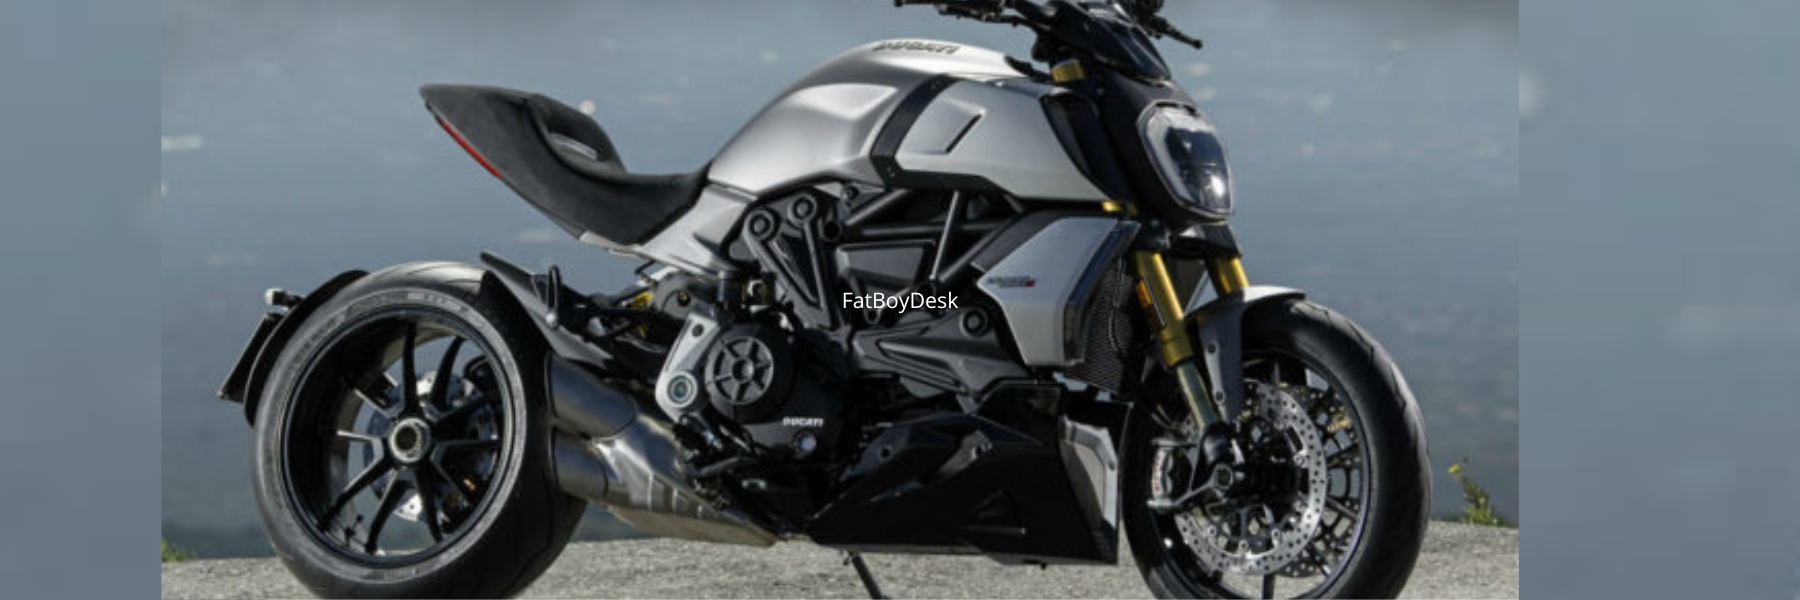
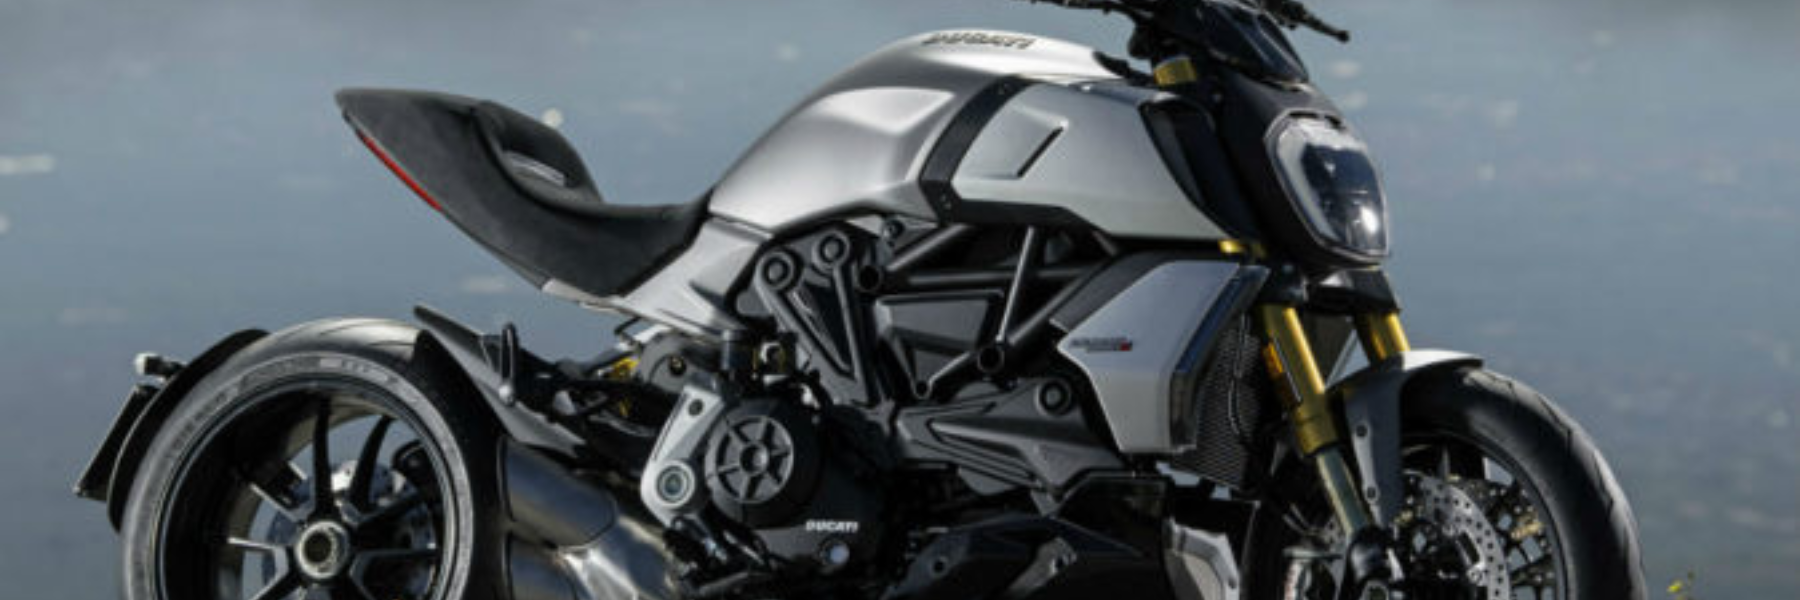
Index finalizado

diff --git a/index.css b/index.css
@@ -44,6 +44,7 @@ body{
   display: flex;
   align-items: center;
   justify-content: space-around;
+  font-size: 100%;
 }
 
 .tira button{
@@ -55,8 +56,6 @@ body{
   font-family: 'Righteous',sans-serif;
   margin-top: 10%;
   font-size: 20px;
-  
-  
 }
 
 .tira h2{
@@ -85,7 +84,8 @@ body{
   margin-left: 3%;
 }
 .ofertas .motos{
-  width: 300px;
+  width: 100%;
+  height: auto;
 }
 
 .ofertas a{
@@ -94,7 +94,10 @@ body{
 }
 .ofertas p{
   text-decoration: none;
-  color:black;
+  color: black;
+  justify-content: start;
+  display: flex;
+  margin: 3%;
 }
 
 .ofertas a:hover{
@@ -217,6 +220,7 @@ body{
     display: grid;
     grid-template-columns: 1fr;
     background-color: #ffff;
+    margin: 3%;
   }
   .card{
     background-color: rgb(217, 217, 217);
@@ -238,18 +242,184 @@ body{
   font-family: 'Righteous',sans-serif;
   margin-top: 20%;
 }
-.roda{
-  background-color:rgba(22, 22, 22, 1);
-  height: auto;
-  margin-top: 7%;
-  align-items: flex-end;
+.tira h2{
+  font-family: 'Righteous',sans-serif;
+  color: white;
+  text-align: center;
+  font-size: 100%;
 }
-.rodaPe{
-  display: flex;
-  flex-direction: column;
-  justify-content: center;
-  align-items: flex-end;
+.tira button{
+  background-color: rgb(255, 102, 0, 1);
+  color:white;
+  height: 50px;
+  width: 150%;
+  font-size:  large;
+  font-family: 'Righteous',sans-serif;
+  margin-top: 10%;
+  font-size: 20px;
 }
 }
 
+@media screen and (max-width:702px){
+  .img-desktop{
+    display: none;
+  }
+  .img-mobile{
+    display: block;
+  }
+  .nav-auto, .nav-manual{
+    margin-top: 53%;
+  }
+  .container{
+    display: grid;
+    grid-template-columns: 1fr;
+    background-color: #ffff;
+    margin: 3%;
+  }
+  .card{
+    background-color: rgb(217, 217, 217);
+    width: 60%;
+    margin-left: 20%;
+    height: 90%;
+    border-radius: 2%;
+    margin-top: 70px;
+  }
+  .card button{
+    background-color: rgb(255, 102, 0, 1);
+    color:white;
+    height: 13%;
+    width: 70%;
+    font-size: large;
+    font-family: 'Righteous',sans-serif;
+  }
+  .card p{
+  font-family: 'Righteous',sans-serif;
+  margin-top: 20%;
+}
+.tira h2{
+  font-family: 'Righteous',sans-serif;
+  color: white;
+  text-align: center;
+}
+.tira button{
+  background-color: rgb(255, 102, 0, 1);
+  color:white;
+  height: 50px;
+  width: 150%;
+  font-size:  large;
+  font-family: 'Righteous',sans-serif;
+  margin-top: 10%;
+  font-size: 20px;
+}
+}
+
+@media screen and (max-width:548px){
+  .img-desktop{
+    display: none;
+  }
+  .img-mobile{
+    display: block;
+  }
+  .nav-auto, .nav-manual{
+    margin-top: 50%;
+  }
+  .container{
+    display: grid;
+    grid-template-columns: 1fr;
+    background-color: #ffff;
+    margin: 3%;
+    margin-bottom: 20%;
+  }
+  .card{
+    background-color: rgb(217, 217, 217);
+    width: 60%;
+    margin-left: 20%;
+    height: 90%;
+    border-radius: 2%;
+    margin-top: 70px;
+  }
+  .card button{
+    background-color: rgb(255, 102, 0, 1);
+    color:white;
+    height: 13%;
+    width: 70%;
+    font-size: large;
+    font-family: 'Righteous',sans-serif;
+  }
+  .card p{
+  font-family: 'Righteous',sans-serif;
+  margin-top: 20%;
+}
+.tira h2{
+  font-family: 'Righteous',sans-serif;
+  color: white;
+  text-align: center;
+  
+}
+.tira button{
+  background-color: rgb(255, 102, 0, 1);
+  color:white;
+  height: 50px;
+  width: 120%;
+  font-size:  large;
+  font-family: 'Righteous',sans-serif;
+  margin-top: 10%;
+  font-size: 20px;
+}
+}
+
+@media screen and (max-width:300px){
+  .img-desktop{
+    display: none;
+  }
+  .img-mobile{
+    display: block;
+  }
+  .nav-auto, .nav-manual{
+    margin-top: 48%;
+  }
+  .container{
+    display: grid;
+    grid-template-columns: 1fr;
+    background-color: #ffff;
+    margin: 3%;
+    margin-bottom: 20%;
+  }
+  .card{
+    background-color: rgb(217, 217, 217);
+    width: 80%;
+    margin-left: 20%;
+    height: 90%;
+    border-radius: 2%;
+    margin-top: 70px;
+  }
+  .card button{
+    background-color: rgb(255, 102, 0, 1);
+    color:white;
+    height: 13%;
+    width: 70%;
+    font-size: large;
+    font-family: 'Righteous',sans-serif;
+  }
+  .card p{
+  font-family: 'Righteous',sans-serif;
+  margin-top: 20%;
+}
+.tira h2{
+  font-family: 'Righteous',sans-serif;
+  color: white;
+  text-align: center;
+  
+}
+.tira button{
+  background-color: rgb(255, 102, 0, 1);
+  color:white;
+  height: 50px;
+  width: 120%;
+  font-size:  large;
+  font-family: 'Righteous',sans-serif;
+  margin-top: 10%;
+  font-size: 20px;
+}
+}
 

diff --git a/index.html b/index.html
@@ -24,7 +24,7 @@
             </div>
 
             <div class="slide-box">
-                <a href=""><img class="img-desktop" src="Imagens/DucatiDiavelDesk1.png" alt="slide 2"></a>
+                <a href=""><img class="img-desktop" src="Imagens/DucatiDiavelDesk.png" alt="slide 2"></a>
                 <a href=""><img class="img-mobile" src="Imagens/DucatiDiavelMob.png" alt="slide 2"></a>
             </div>
 
@@ -79,11 +79,11 @@
 
         <div class="ofertas">
             <a href="">
-            <img class="motos" src="Imagens/ducati-removebg-preview.png" alt="Ducati Diavel v4">
+            <img class="motos" src="Imagens/DucatiDiavelOfertas.png" alt="Ducati Diavel v4">
             <div class="baixo">
             <div class="flex">
             <h1>Ducati Diavel v4</h1>
-            <img class="ofertaIcon" src="Imagens/ducati_logo-removebg-preview.png" alt="">
+            <img class="ofertaIcon" src="Imagens/DucatiLogo.png" alt="">
             </div>
             <p>A partir de R$150.000</p>
         </div>
@@ -93,11 +93,11 @@
 
         <div class="ofertas">
         <a href="">
-            <img class="motos" src="Imagens/ducati-removebg-preview.png" alt="CRF 1100L Africa Twin">
+            <img class="motos" src="Imagens/AfricaTwinOferta.png" alt="CRF 1100L Africa Twin">
             <div class="baixo">
                 <div class="flex">
                     <h1>CRF 1100L Africa Twin </h1>
-                    <img class="ofertaIcon" src="Imagens/ducati_logo-removebg-preview.png" alt="">
+                    <img class="ofertaIcon" src="Imagens/HondaLogo.png" alt="">
                 </div>
                 <p>A partir de R$81.000</p>
             </div>
@@ -106,11 +106,11 @@
         
         <div class="ofertas">
         <a href="">
-            <img class="motos" src="Imagens/ducati-removebg-preview.png" alt="Fat Boy 114">
+            <img class="motos" src="Imagens/FatBoyOfertas.png" alt="Fat Boy 114">
             <div class="baixo">
                 <div class="flex">
             <h1>Fat Boy 114</h1>
-            <img class="ofertaIcon" src="Imagens/ducati_logo-removebg-preview.png" alt="">
+            <img class="ofertaIcon" src="Imagens/HarleyLogo.png" alt="">
                  </div>
             <p>A partir de R$129.000</p>
             </div>
